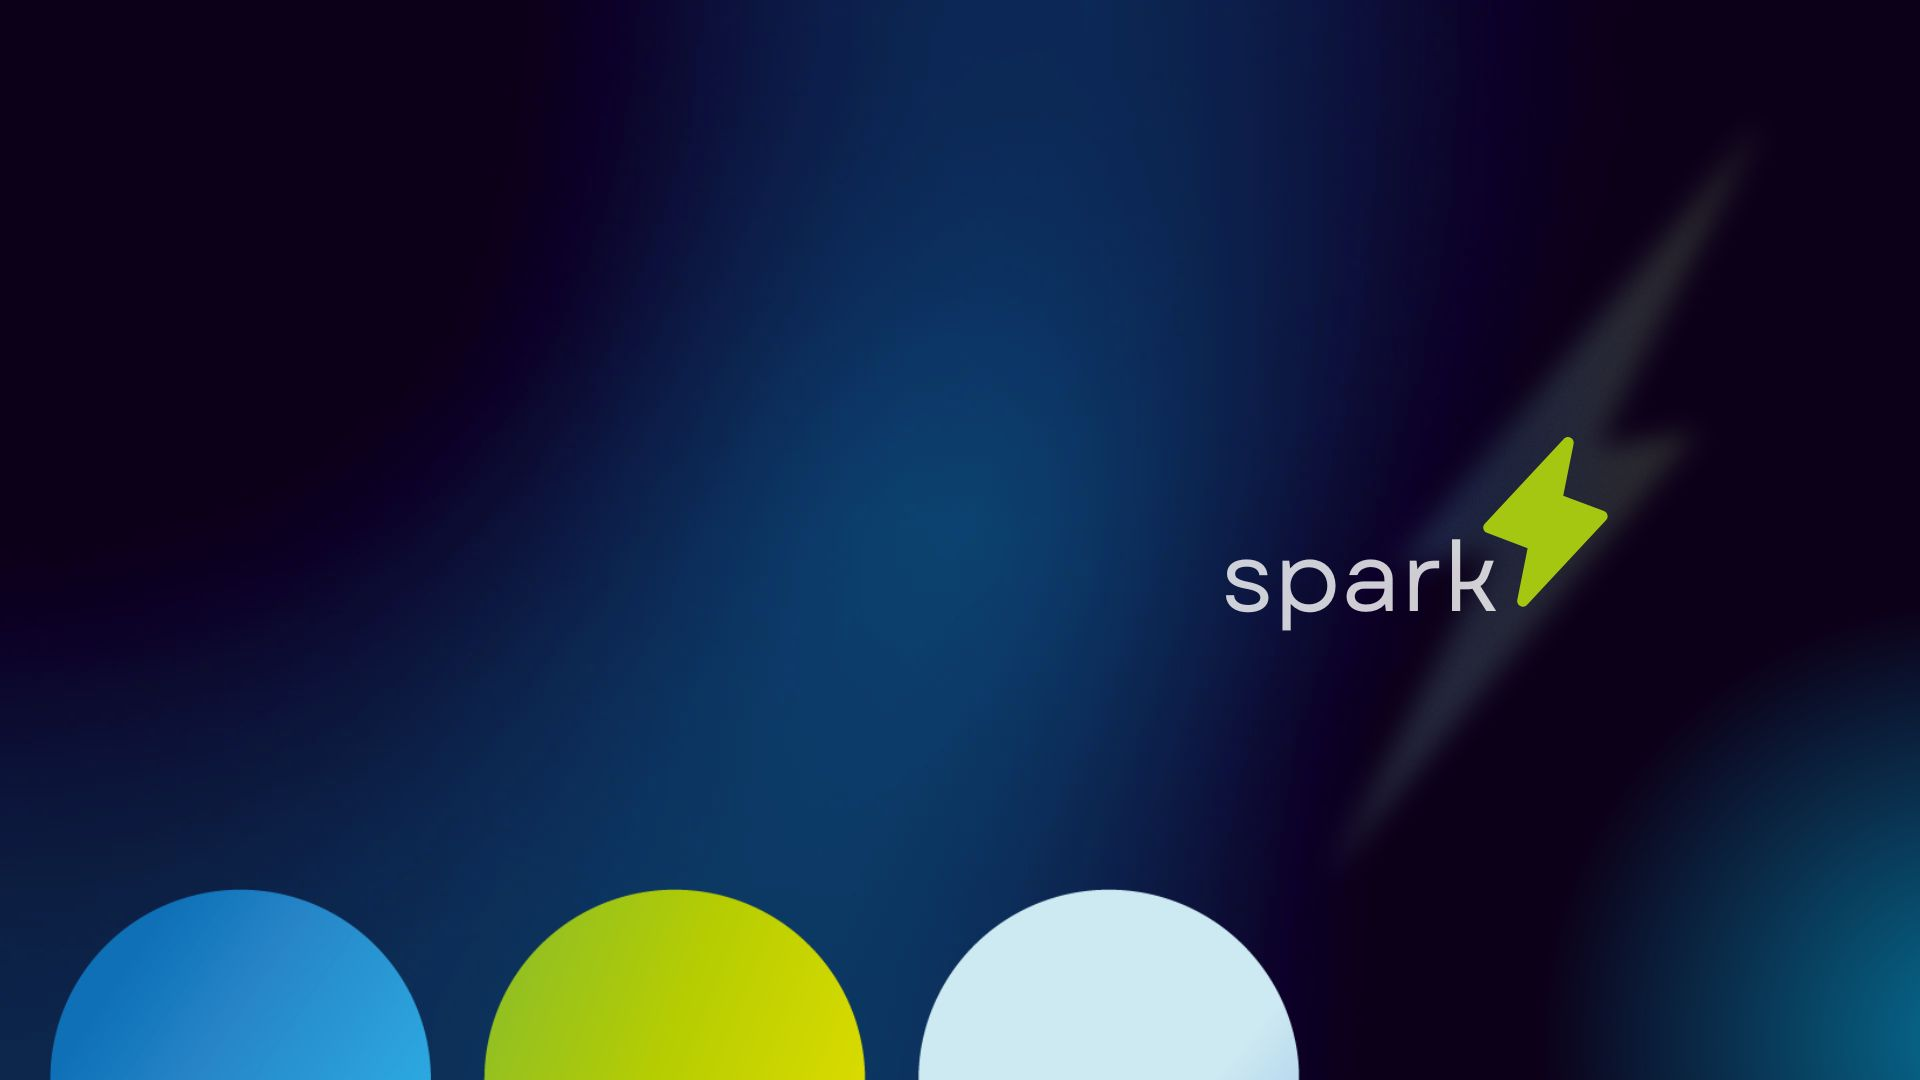
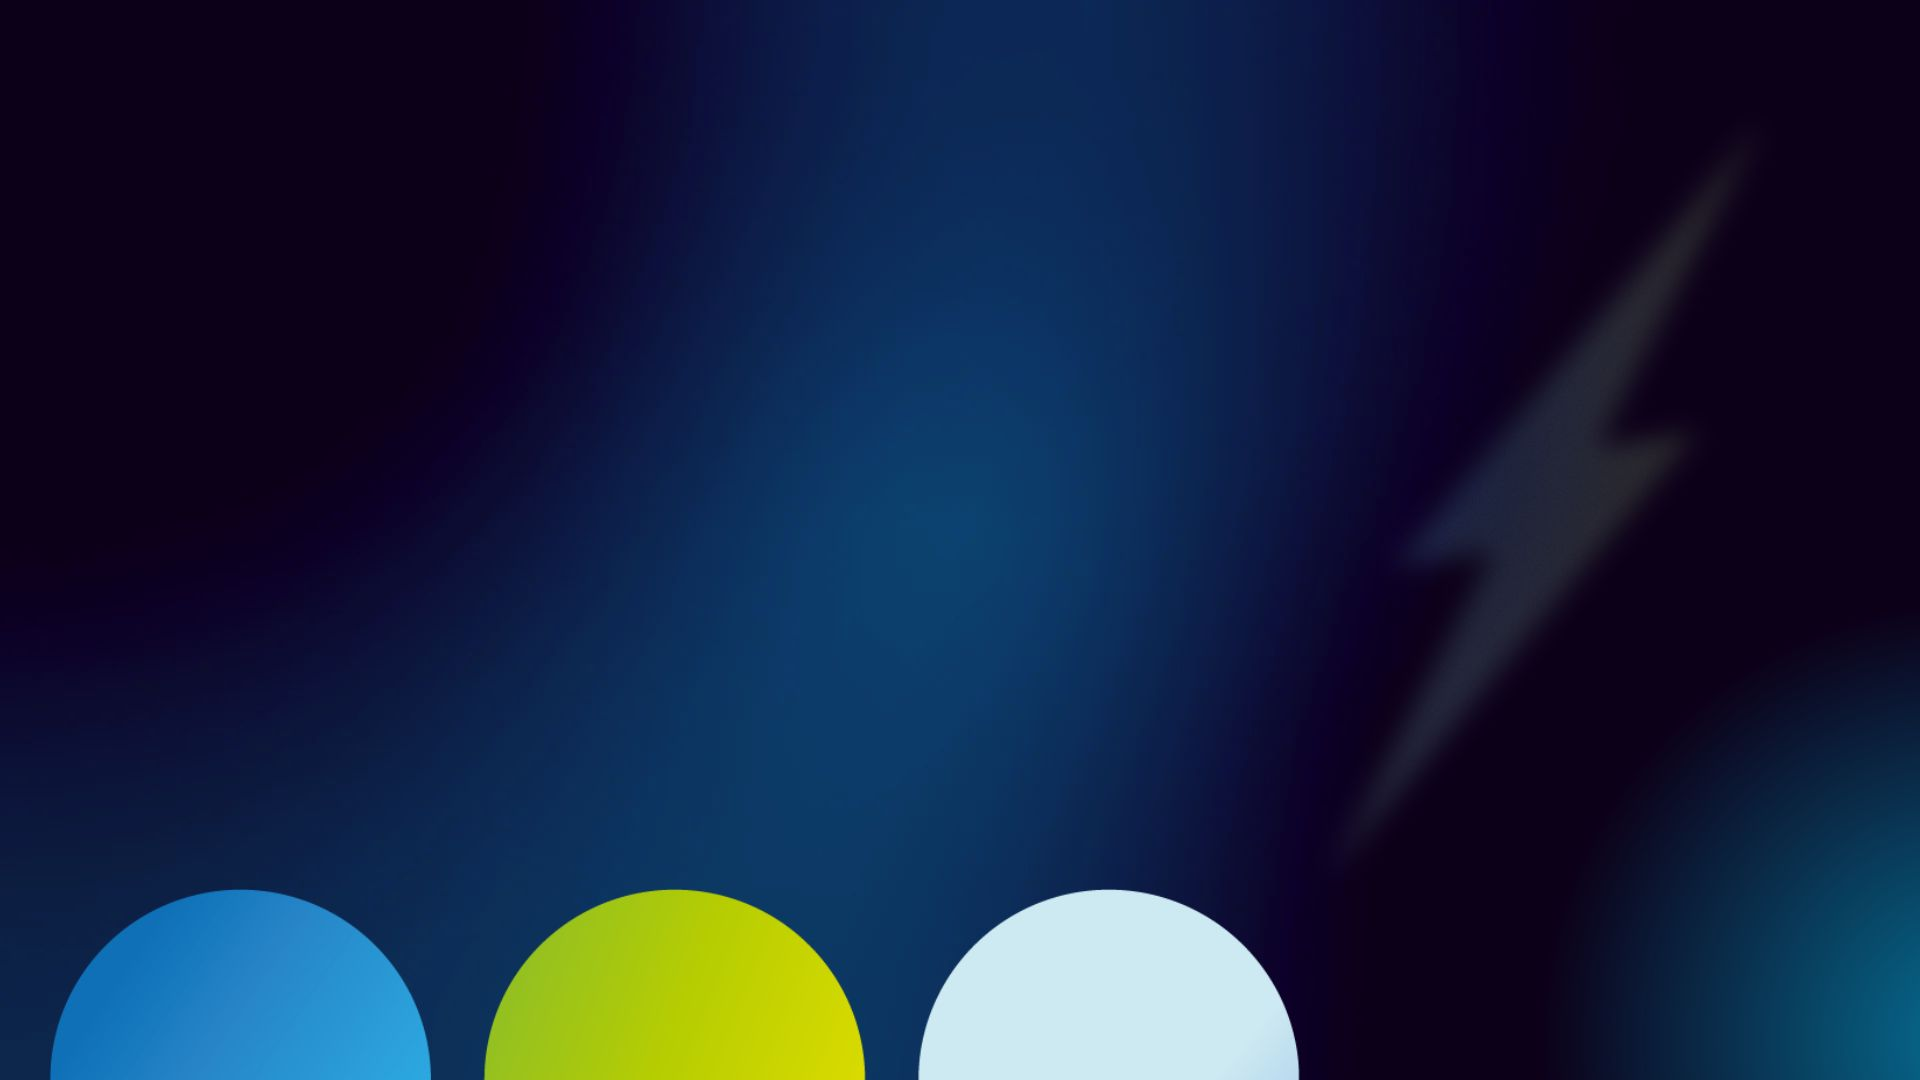
edit

Changed region(s): [[0.625, 0.3972, 0.8438, 0.5806]]

diff --git a/templates/landing/hero.html b/templates/landing/hero.html
@@ -61,7 +61,7 @@
                 </div>
             </div>
             <div>
-                <img src="static/images/SPARK.png" alt="SPARK Logo" class="logo" loading="eager">
+                <img src="{{ url_for('static', filename='images/onab/sparklt.png') }}" alt="SPARK Logo" class="logo" loading="eager">
             </div>
         </div>
     </div>
@@ -78,7 +78,6 @@
             <div class="side-panel-header">
                 <h2>Fonctionnalités Ona Spark</h2>
             </div>
-            <div id="sidePanelLogoContainer"></div>
             <ul class="side-panel-features">
                 <li>
                     <svg xmlns="http://www.w3.org/2000/svg" width="24" height="24" viewBox="0 0 24 24" fill="none" stroke="currentColor" stroke-width="2" stroke-linecap="round" stroke-linejoin="round">
@@ -113,52 +112,37 @@
                     </svg>
                     <span>Gestion des différentes unités et zones de l'office</span>
                 </li>
+                <li>
+                    <svg xmlns="http://www.w3.org/2000/svg" width="24" height="24" viewBox="0 0 24 24" fill="none" stroke="currentColor" stroke-width="2" stroke-linecap="round" stroke-linejoin="round">
+                        <path d="M22 11.08V12a10 10 0 1 1-5.93-9.14"></path>
+                        <polyline points="22 4 12 14.01 9 11.01"></polyline>
+                    </svg>
+                    <span>Agent Ona Spark : Assistant intelligent pour la gestion des ressources en eau</span>
+                </li>
+                <li>
+                    <svg xmlns="http://www.w3.org/2000/svg" width="24" height="24" viewBox="0 0 24 24" fill="none" stroke="currentColor" stroke-width="2" stroke-linecap="round" stroke-linejoin="round">
+                        <path d="M12 22s8-4 8-10V5l-8-3-8 3v7c0 6 8 10 8 10z"></path>
+                        <circle cx="12" cy="10" r="3"></circle>
+                        <path d="M12 15v4"></path>
+                    </svg>
+                    <span>Agent Spark : Analyse et explication détaillée des incidents et accidents</span>
+                </li>
             </ul>
+            <div class="side-panel-footer" style="text-align: center; padding: 15px; font-size: 0.8em; color: #888;">
+                Et plus de fonctionnalités en développement
+            </div>
         </div>
     </div>
     <script>
         function toggleSidePanel() {
             const sidePanel = document.getElementById('sidePanelContainer');
             const toggleButton = document.querySelector('.side-panel-toggle');
-            const logo = document.querySelector('.logo');
-            const sidePanelLogoContainer = document.getElementById('sidePanelLogoContainer');
-            const originalContainer = document.querySelector('.content-grid > div:last-child');
             
             // Toggle side panel
             sidePanel.classList.toggle('open');
             
             // Toggle button state
             toggleButton.classList.toggle('active');
-            
-            // Move logo logic
-            if (sidePanel.classList.contains('open')) {
-                // Fade out logo first
-                logo.classList.add('fade-out');
-                
-                // After fade-out, move to side panel
-                setTimeout(() => {
-                    sidePanelLogoContainer.appendChild(logo);
-                    logo.classList.add('side-panel-logo');
-                    logo.classList.remove('fade-out');
-                    logo.classList.add('fade-in');
-                }, 300);
-            } else {
-                // Fade out logo in side panel
-                logo.classList.remove('fade-in');
-                logo.classList.add('fade-out');
-                
-                // After fade-out, move back to original container
-                setTimeout(() => {
-                    originalContainer.appendChild(logo);
-                    logo.classList.remove('side-panel-logo', 'fade-out');
-                    
-                    // Trigger reflow to restart animation
-                    void logo.offsetWidth;
-                    
-                    // Fade in logo in original place
-                    logo.classList.add('fade-in');
-                }, 300);
-            }
             
             // Change button text based on panel state
             const buttonText = toggleButton.querySelector('.side-panel-toggle-text');
@@ -184,6 +168,22 @@
                 loadingScreen.classList.add('fade-out');
             }, 1900);
         }
+        
+        // Function to randomly select logo
+        function selectRandomLogo() {
+            const logos = [
+                '{{ url_for("static", filename="images/onab/sparklt1.png") }}',
+                '{{ url_for("static", filename="images/onab/sparklt2.png") }}'
+            ];
+            const randomIndex = Math.floor(Math.random() * logos.length);
+            
+            // Update main page logo
+            const mainLogo = document.querySelector('.logo');
+            mainLogo.src = logos[randomIndex];
+        }
+
+        // Call the function when the page loads
+        window.addEventListener('load', selectRandomLogo);
     </script>
     <script src="{{ url_for('static', filename='js/cycling-text.js') }}"></script>
 </body>

diff --git a/static/css/WelcomeHero.css b/static/css/WelcomeHero.css
@@ -33,7 +33,7 @@ body {
     background-image: url('../images/onab/landingpagebg3.jpg');
     background-size: cover;
     background-position: center;
-    filter: blur(8px) brightness(0.7);
+    filter: blur(1px) brightness(0.7);
     will-change: transform;
 }
 

diff --git a/docs/readme.md b/docs/readme.md
@@ -2,8 +2,7 @@
 ![SPARK](https://github.com/user-attachments/assets/0ddc16cf-8a52-44c1-8876-04ab7ca0d07e)
 ## Project Overview
 
- 
-OnaSpark is a comprehensive water management system designed to provide robust solutions for water quality assessment, incident tracking, and organizational management. Developed with a focus on precision, efficiency, and scalability, the platform addresses critical challenges in water resource management.
+OnaSpark is a comprehensive water management system designed to provide robust solutions for water quality assessment, incident tracking, and organizational management. Enhanced with AI-powered agents, the platform delivers intelligent assistance and advanced analytics for water resource management.
 
 ## Core Functionalities
 
@@ -78,6 +77,44 @@ A comprehensive incident management system designed for rapid response and detai
 - Historical incident analysis
 - Integrated resolution workflows
 
+### Document Generation and Reporting
+
+- Automated generation of PDF and Excel reports
+- Customizable report templates
+- Comprehensive data export capabilities
+- Multi-format document support
+
+### Geographic Information System (GIS) Integration
+
+- Integrated incident reporting with GIS
+- Spatial data visualization
+- Geographic tracking and mapping
+- Location-based analytics
+
+
+
+### Organizational Structure Management
+
+- Comprehensive unit and zone management
+- Hierarchical administrative structure
+- Flexible organizational mapping
+- Resource allocation tracking
+
+### AI-Powered Assistance
+
+#### Ona Spark Agent
+- Intelligent water resource management assistant
+- Automated data analysis and insights
+- Predictive maintenance suggestions
+- Resource optimization recommendations
+
+#### Spark Incident Analysis Agent
+- Detailed incident and accident analysis
+- Root cause identification
+- Pattern recognition in incidents
+- Preventive measure suggestions
+- Automated incident report generation
+
 ## Technical Architecture
 
 ### Backend Technologies
@@ -89,7 +126,15 @@ A comprehensive incident management system designed for rapid response and detai
 ### Frontend
 - Templating: Jinja2
 - Responsive Design
-- Multilingual Support
+- Dynamic UI Components
+- Interactive Data Visualization
+- Multilingual Support (French and Arabic)
+
+### AI Integration
+- Advanced Machine Learning Models
+- Natural Language Processing
+- Predictive Analytics
+- Automated Report Generation
 
 ## User Roles and Permissions
 
@@ -97,11 +142,13 @@ A comprehensive incident management system designed for rapid response and detai
    - Full system access
    - User and role management
    - Global configuration
+   - AI agent configuration
 
 2. **Zone Manager**
-   - Area-specific administrative rights
-   - Comprehensive zone oversight
-   - Incident and water quality management within assigned zones
+   - Zone-specific management
+   - Report generation
+   - Incident management
+   - Resource allocation
 
 3. **Unit Manager**
    - Detailed unit-level control
@@ -109,10 +156,10 @@ A comprehensive incident management system designed for rapid response and detai
    - Water quality monitoring for specific units
 
 4. **Standard User**
-   - Limited access
-   - Restricted to assigned zones and units
-   - Basic reporting and tracking capabilities
-
+   - Data entry
+   - Basic reporting
+   - Incident reporting
+   - Resource viewing
 
 ## Key Differentiators
 
@@ -121,6 +168,7 @@ A comprehensive incident management system designed for rapid response and detai
 - Comprehensive incident tracking
 - Advanced multilevel access control
 - Scalable and extensible architecture
+- AI-powered assistance
 
 ## Future Roadmap
 
@@ -129,7 +177,11 @@ A comprehensive incident management system designed for rapid response and detai
 - Machine learning-based anomaly detection
 - Enhanced reporting capabilities
 - Cloud synchronization
-
+- Enhanced AI capabilities
+- Advanced analytics
+- Additional language support
+- Extended reporting capabilities
+- Improved user interface
 
 Mehdi Benhenni
 
